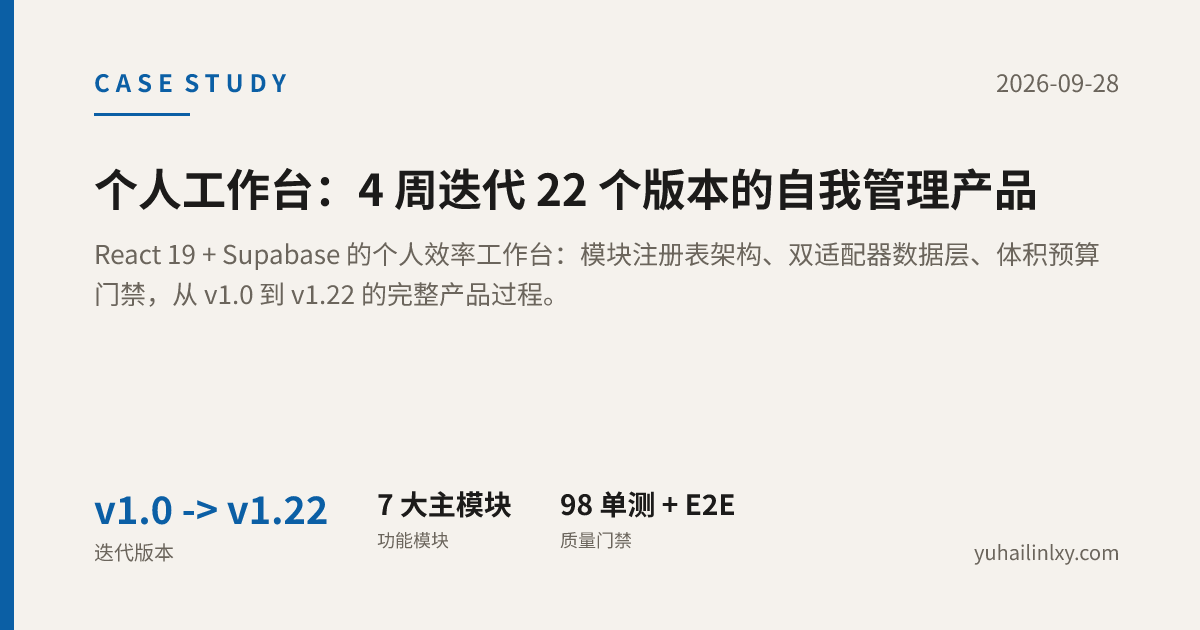
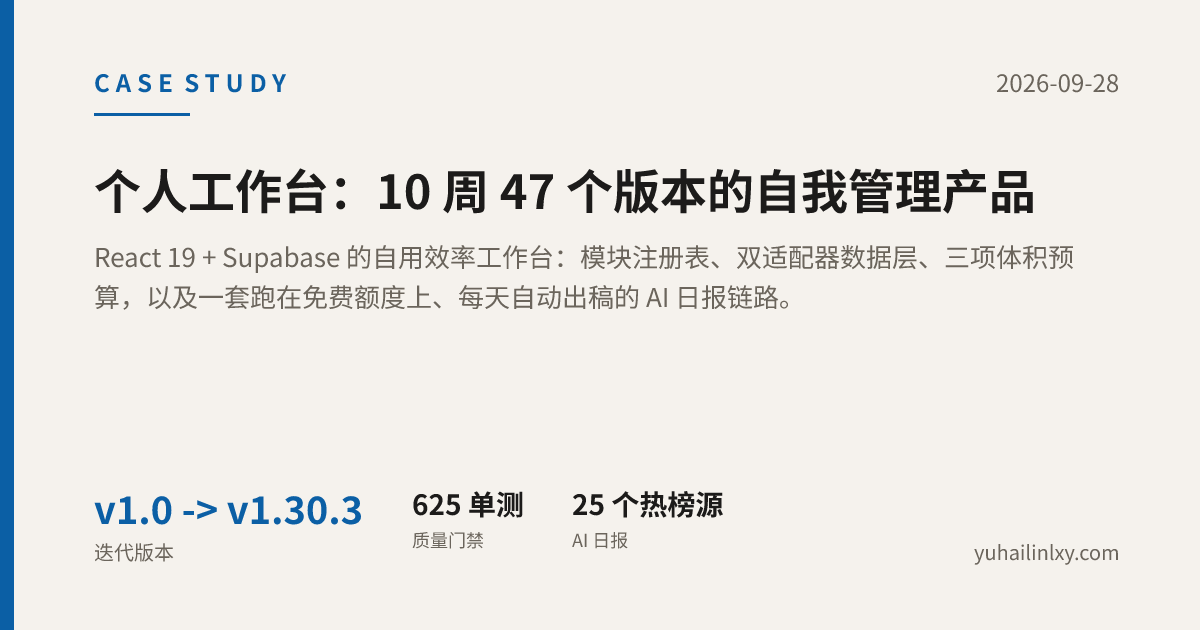
docs(site): 个人工作台案例同步到 v1.30.3 + about 时间线（v0.21）
案例停在 v1.22（2026-09-01），项目已到 v1.30.3（2026-10-16）。同步不只是改数字，是把这两段新过程写成取舍。

- 案例页：标题「4 周迭代 22 个版本」→「10 周 47 个版本」；新增取舍 5（AI 进产品：状态机+幂等 / 时间预算按剩余 60-40 切 / 空闲计费 + 关思考模式）与取舍 6（平台不保证准时 → 日报提前 04:00、提醒每 20 分钟、删掉 UI 里「每天 06:00」的承诺）；结果区数字全部现跑（625 单测 / 69 文件、12 条 E2E、三项体积预算 790/1150/340 KB、47 版 = 23+6+18）；复盘区补「代价最贵的一课」
- 更正历史数字：按 changelog 逐条数，v1.0.0→v1.22.0 实为 23 个发布（原写 22）
- 加 links.repo（仓库本就公开；加链前做敏感信息体检：跟踪文件只有 .env.example / .env.test 的 VAPID 公钥，历史 sk-/JWT 形态 0 命中）
- about.md：能力域补「AI 功能编排与上线自检」；时间线加 2026-10 的个人工作台、8 月那条 22 → 23 版
- 撞上 OG 门禁：metrics 同时是封面底排文案，加长后 npm run og 直接红（底排出框 1210>1026）。不放宽版式，按 estimateWidth 预算重选指标值（88.6%）后重新生成 18 张 OG 图
- about/README/STATUS/ISSUES/lessons-learned 同步；ISSUES #28 登记「site/.github 嵌套工作流从未被 GitHub 调度，lint/format:check 从没跑过」
- 验证：npm run build 退出码 0 / 28 页 / 10 门禁全绿；真实浏览器截图 6 张零 console 错误

Changed region(s): [[0.0617, 0.2714, 0.925, 0.5127], [0.2467, 0.7841, 0.6167, 0.8746], [0.4625, 0.8444, 0.5242, 0.8746]]

diff --git a/site/src/content/case-studies/personal-workbench.md b/site/src/content/case-studies/personal-workbench.md
@@ -1,24 +1,25 @@
 ---
-title: "个人工作台：4 周迭代 22 个版本的自我管理产品"
-description: "React 19 + Supabase 的个人效率工作台：模块注册表架构、双适配器数据层、体积预算门禁，从 v1.0 到 v1.22 的完整产品过程。"
+title: "个人工作台：10 周 47 个版本的自我管理产品"
+description: "React 19 + Supabase 的自用效率工作台：模块注册表、双适配器数据层、三项体积预算，以及一套跑在免费额度上、每天自动出稿的 AI 日报链路。"
 pubDatetime: 2026-09-28T12:00:00+08:00
-modDatetime: 2026-10-14T23:50:00+08:00
+modDatetime: 2026-10-16T23:30:00+08:00
 featured: true
-tags: ["产品设计", "React", "架构"]
+tags: ["产品设计", "React", "架构", "AI 落地"]
 projectRole: "独立产品人与开发者：需求定义、模块规划、技术选型、迭代节奏与全部实现"
-stack: ["React 19", "Vite", "TypeScript", "Tailwind v4", "shadcn/ui", "Supabase", "TanStack Query", "Vercel"]
+stack: ["React 19", "Vite", "TypeScript", "Tailwind v4", "shadcn/ui", "Supabase", "TanStack Query", "DeepSeek API", "Vercel"]
 links:
   live: "https://workbench.yuhailinlxy.com"
+  repo: "https://github.com/YHLLXY/-personal-workbench"
 metrics:
   - label: "迭代版本"
-    value: "v1.0 → v1.22"
-    note: "2026-08-04 至 09-01，约 4 周"
-  - label: "功能模块"
-    value: "7 大主模块"
-    note: "总览/学习/自我提升/资讯/健康/复盘/我的"
+    value: "v1.0 → v1.30.3"
+    note: "2026-08-04 至 10-16，47 个版本；规模长到 6 主模块 / 12 子模块"
   - label: "质量门禁"
-    value: "98 单测 + E2E"
-    note: "另有客户端体积预算门禁"
+    value: "625 单测"
+    note: "69 个测试文件 + 12 条 E2E；另有三项体积预算门禁"
+  - label: "AI 日报"
+    value: "25 个热榜源"
+    note: "每日自动：抓取 → 摘要 → 事件聚簇 → 出稿"
 ---
 
 ## 一、背景与问题
@@ -33,27 +34,44 @@ metrics:
 
 独立产品人与开发者，own 全部环节：需求定义与优先级排序、模块规划与信息架构、技术选型、前后端实现、测试与发布流程。AI 深度参与编码与审查，但**架构决策、验收标准、发版节奏由我把握**——为此建立了版本号制度（SemVer 裁剪 + 发版 checklist）和自动化发版脚本（v1.15 起，一条命令出包）。
 
+10 月的 AI 日报是我第一次把模型放进**无人值守**的位置：它每天凌晨自己跑完抓取、摘要、聚类和成稿，我只在上班前读结果。这一段经历把我对“AI 功能”的理解从“会写提示词”推到了“会设计失败面”。
+
 ## 三、过程与关键取舍
 
 **取舍 1：模块注册表，让“加功能”不再是体力活。** 多模块 SPA 的侧边栏、底部 Tab、路由、首页卡片最初分散在四处，新增模块要改 4 个文件。改为单一类型化注册表后，导航/路由/首页卡片全部由它生成，新增模块 = 新建文件夹 + 注册表加一行，且每个模块自动独立 chunk 懒加载。代价是注册表引用超前会卡构建，纪律是每个 commit 保持可构建。
 
 **取舍 2：双适配器数据层，不被云端阻塞。** Supabase 凭据、建表在开发早期无法就绪。我定义了 33 个方法的 Repository 接口，本地实现（localStorage）与云端实现（Supabase）按环境变量切换——整个开发周期无凭据也能全功能跑通。代价：两个实现必须逐方法对齐语义（任务完成状态机、upsert 必须带 id），这类“本地/云端行为分叉”是项目里最隐蔽的 bug 类。
 
-**取舍 3：体积预算门禁，被否掉的 Motion 方案。** v1.13 起引入客户端体积预算门禁 + Playwright E2E。v1.22 我想用 Motion 动画库做启动动画，实测包体 **+123KB，破预算**——放弃，降级为零依赖 Canvas 氛围层 + 手写 FLIP 动画替代。预算门禁的价值就在这一刻：它让“要不要引一个库”从感觉问题变成数字问题。
+**取舍 3：体积预算门禁，被否掉的 Motion 方案。** v1.13 起引入客户端体积预算门禁 + Playwright E2E。v1.22 我想用 Motion 动画库做启动动画，实测包体 **+123KB，破预算**——放弃，降级为零依赖 Canvas 氛围层 + 手写 FLIP 动画替代。预算门禁的价值就在这一刻：它让“要不要引一个库”从感觉问题变成数字问题。v1.26 又把这一个数字拆成三个（首屏 JS / JS 总量 / 最大单 chunk）——旧口径量的是“代码总量”，却声称保护“移动端首屏”，**判据和它声称保护的东西对不上，门禁就只是个仪式**。
 
 **取舍 4：AI 代码审查不盲信。** v1.9 对一轮 72 条 AI 代码审查逐条核实：约 1/3 是误报，5 条标 CRITICAL 的**全部不成立**。AI 提效，但验证权必须留在人手里——这条后来成了我仓库执行规则的固定条款。
 
+**取舍 5：让 AI 进产品，但把不确定性关进三样东西。** v1.27 给「今日热点」加了一条 AI 日报链路：每天凌晨抓 25 个热榜源 → 模型逐条摘要 → 把同一件事的多篇报道聚成一个事件 → 编排成一份带来源链接的简报。难点不在提示词，而在**让它一次函数执行、一份免费额度内稳定跑完**：
+
+- **状态机 + 幂等**：条目在「待处理 / 处理中 / 已完成 / 已跳过 / 已失败」之间流转，领取即置「处理中」。重跑因此是安全的——实测第二次运行只用 2.4 秒、新增 0 条。
+- **时间预算**：整条链路切成「抓取 → 摘要（前 60%）→ 聚簇（后 40%）」，且预算按**剩余**时间切。第一版按总量切，抓取一吃掉 11 秒，摘要只剩 1 秒，一轮只处理得了 5 条、顺延 30 条，得连跑 7 轮才消化得完。
+- **成本**：整条链路跑在模型的空闲计费时段（价格是高峰的一半），并关掉默认开启的「思考模式」。这个开关是实测逼出来的：18 条真实长度的标题能让它想掉 1900 个 token，而**思考是从输出额度里扣的**——2000 的额度只剩一百来个写正文，日报断在半截 JSON 上。更阴险的是它随输入长度漂移：换短标题只要 871 个 token，正好能过，所以本地小样本测试是绿的。
+
+链路一变长，失败面就铺开（抓取、摘要、聚簇、编排四处都可能断），于是配了一个**上线自检**：一次调用把环境变量、四张表、归属账号、热榜连通、模型连通、通知通道全查一遍，且**任何一项失败都不影响其余项继续检查**。上线顺序固定为「先自检，再抓取，最后出稿」。
+
+**取舍 6：平台不保证准时，产品就不该承诺时刻。** 定时任务落到 GitHub Actions（零成本，符合学生预算）。第一次全自动运行就暴露了一件事：**计划任务不保证准时**——日报排在早上 6 点，实际快 8 点才生成；提醒按每小时排，9 个整点里只有 2 个真的跑了。两条工程补偿：日报**提前到凌晨 4 点**起跑（早生成没有副作用，晚才有），提醒改成**每 20 分钟**扫一次（既然单次不可靠，就提高尝试频次）。同时改掉一句善意的谎——应用里原本写着「每天 06:00 自动生成」，既然实际时间会漂，就不该承诺具体时刻，改成「每天凌晨……通常在你起床前就备好了」。**把不确定性讲清楚，比维护一个漂亮的承诺更值钱。**
+
 ## 四、结果与量化
 
-- **4 周内发布 22 个版本**（v1.0 → v1.22），从 5 模块长到 7 大主模块（总览、学习与科研、自我提升、资讯与资料、健康、复盘、我的），全程每个 commit 可构建。
-- **质量门禁全绿**：98 个单元测试 + Playwright 端到端 + 体积预算门禁（拦下 123KB 的劣化方案）。
-- 产品在线运行：[workbench.yuhailinlxy.com](https://workbench.yuhailinlxy.com)。支持 PWA 安装、Web Push / Server酱 提醒、备份导出导入、云端多设备同步。
-- **诚实交代**：这是 N=1 的自用产品，没有外部用户数据。它的价值在于**完整产品过程的证据**——版本制度、发版 checklist、验收清单、体积预算，这套流程可以直接复用到团队场景。
+- **47 个版本 / 73 天**（v1.0.0 → v1.30.3）。节奏分三段：前 4 周 23 版（密集迭代）、9 月 6 版（按需维护）、10 月两天 18 版（先修 7 个体验缺陷，再走完 AI 日报从上线到定稿的 17 版）。全程每个 commit 可构建。
+- **质量门禁全绿**：625 个单元测试（69 个文件）+ 12 条 Playwright 端到端 + 三项体积预算（首屏 JS 790KB / JS 总量 1150KB / 最大单 chunk 340KB）。体积预算拦下过 123KB 的劣化方案。
+- **AI 日报进入无人值守**：每天凌晨自动抓 25 个热榜源，落库 → 逐条摘要 → 事件聚簇 → 成稿。交付当日完整自动运行产出 14 条事件、5 个来源的简报；日报可一键复制为 Markdown，也能按日期回看历史。
+- 产品在线运行：[workbench.yuhailinlxy.com](https://workbench.yuhailinlxy.com)，支持 PWA 安装、三通道提醒（Web Push / Server酱 / Telegram）、备份导出导入、云端多设备同步。源码在[公开仓库](https://github.com/YHLLXY/-personal-workbench)——本页每个数字都能自己跑一遍。
+- **诚实交代**：这是 N=1 的自用产品，没有外部用户数据。它的价值在于**完整产品过程的证据**——版本制度、发版 checklist、上线自检、体积预算，这套流程可以直接复用到团队场景。
 
 ## 五、复盘与反思
 
-**成立的**：注册表 + 双适配器让四周密集迭代没有烂尾（此前我做项目常死于结构混乱）；质量门禁让“快速迭代”没有变成“快速腐化”。
+**成立的**：注册表 + 双适配器让密集迭代没有烂尾（此前我做项目常死于结构混乱）；质量门禁让“快速迭代”没有变成“快速腐化”。这次再添一条：**把不确定性关进状态机和时间预算，比事后反复调提示词有效得多**——AI 功能的稳定性来自工程约束，不来自写得更好的那句话。
 
 **过度设计的**：v1.18 我花两天纯 CSS 手绘启动动画，被打回重做——v1.19 换 Meteocons 素材库一天完成，效果更好。教训固化：**先找现成方案，自研是最后选项**。
 
-**下次会验证的**：提醒到达率（Web Push vs Server酱）值得做对比实验；若未来开源，双适配器数据层和注册表模式是两个可独立复用的模块。
+**代价最贵的一课**：AI 日报上线当天，625 个测试全绿，链路上线后却一次都没成功。建表时把状态机写成四种状态、**漏了「处理中」**，而领取条目的函数恰恰要写入它，于是每次调用都被数据库当场拒绝。根因不在漏写，而在：测试里的数据库是我自己写的替身，它只认逻辑、不认字段级约束。**替身比真库宽松的地方，就是 bug 的藏身处。** 现在有一条测试直接读建表 SQL，比对状态机的取值集合。
+
+**下次会验证的**：三种提醒通道的到达率对比实验（Web Push / Server酱 / Telegram）；把更新日志从首屏包体里挪出去改成按需加载——代码总量余量只剩 21KB，而它还在长。
+
+<!-- 同步记录：2026-10-16 v1.22 → v1.30.3（AI 日报上线 + 三通道提醒 + 体积预算拆三项 + 公开发布） -->

diff --git a/docs/STATUS.md b/docs/STATUS.md
@@ -554,6 +554,41 @@
 
 **仍待用户操作（非阻塞，两项）**：
 
-1. 两个 GitHub 仓库的 homepage 仍指向 `*.vercel.app`：`YHLLXY/-personal-workbench` → `personal-workbench-lilac.vercel.app`；`YHLLXY/pm-forge` → `pm-forge-rose.vercel.app`。本机 `gh` CLI **未安装**，需在网页端 Settings 修改。
+1. ~~两个 GitHub 仓库的 homepage 仍指向 `*.vercel.app`~~ —— **2026-10-16 复核已解决**（本机用 `git credential fill` 取 token 走 API 实查）：`YHLLXY/-personal-workbench` → `https://workbench.yuhailinlxy.com`、`YHLLXY/pm-forge` → `https://www.yuhailinlxy.com`，两条都已是自定义域名。仍缺的是 **pm-forge 仓库的 description 与 topics 为空**（作品站把它当「公开仓库」证据链的一环，建议补）。
 2. `VITE_SUPABASE_URL` 被设成 Sensitive，导致用户**自己也读不到**（本次配 Supabase 回调白名单时卡在这里）。呼应 vault 手册修复清单 #8「**`VITE_` 前缀绝不开 Sensitive**」——该值构建期内联进前端包，本就是公开的，开 Sensitive 是纯自伤。可选清理。
+
+## 2026-10-16 作品站「个人工作台」案例同步（v0.21）
+
+**触发**：用户「现在同步一下我的作品站上的有关于个人工作台的部分吧」。
+
+**盘点（先枚举，再动手）**：全站扫「工作台 / workbench / 版本号形态」，6 处命中里**只有 2 处**需要同步 —— `site/src/content/case-studies/personal-workbench.md`（案例页）与 `site/src/content/pages/about.md`（能力域证据 + 时间线）；另 4 处是无关文案（toolbox 截图的 `alt`、搜索框 `placeholder` 等），**判定不改**。案例停在 **v1.22（2026-09-01）**，项目已到 **v1.30.3（2026-10-16）**。
+
+**权威数字（全部现跑，不引用记忆/文档）**：
+
+- 版本：changelog 逐条解析 → **47 个版本**（`v1.0.0` 2026-08-04 → `v1.30.3` 2026-10-16），分三段 **23 + 6 + 18**（前 4 周密集 / 9 月按需 / 10 月两天 AI 日报专项）
+- 测试：`npm test` → **625 通过 / 69 文件**；E2E `e2e/smoke.spec.ts` **12 条**（单 chromium project）
+- 模块：`src/registry.ts` → **6 主模块 / 12 子模块** + 一个「我的」页
+- 体积预算（`scripts/check-bundle.mjs` 常量）：首屏 **790** / 总量 **1150** / 单 chunk **340** KB
+- AI 日报：`api/hot.ts` 的 `SOURCES` **25 个源**（与线上自检报的「60 条 / 25 源」一致）；`api/digest.ts` `buildReport` 的 `items` = 事件条目数，交付当日全自动运行 `{items:14, sources:5}`
+- 发布链：日报 `0 20 * * *`（北京 04:00）、提醒 `*/20 * * * *`
+
+**改了什么**：
+
+1. **案例页**：标题 → `个人工作台：10 周 47 个版本的自我管理产品`；description / `modDatetime` / tags / stack（+DeepSeek API）同步；`metrics` 重选；新增 **取舍 5**（AI 进产品：状态机+幂等 / 时间预算按剩余 60-40 切 / 空闲计费 + 关思考模式）与 **取舍 6**（平台不保证准时 → 日报提前 04:00、提醒每 20 分钟、删掉 UI 里「每天 06:00」的承诺）；结果区数字全部换成现跑值；复盘区新增「代价最贵的一课」（替身比真库宽松）与新的「下次会验证的」。
+2. **`about.md`**：能力域「工程交付」补「AI 功能编排与上线自检」；时间线加 2026-10 的个人工作台，8 月那条 **22 → 23 版**。
+3. **`links.repo`**：仓库本就公开（匿名 API 200）。加链前做体检 —— 跟踪文件只有 `.env.example` / `.env.test`（VAPID **公钥**，设计上公开），历史 `-G 'sk-[A-Za-z0-9]{24,}'` 与 JWT 形态 **0 命中**。
+4. **OG 图重生**：`npm run og` → 18 张（底排最紧 agriagent 94%，本页 **88.6%**）。
+
+**踩到的门禁（值得记）**：`metrics` 不只是数据、**同时是封面底排文案**。指标值一加长，`npm run og` 直接红：`✗ 底排出框：personal-workbench 1210>1026`（`scripts/og/card.mjs` 的 `estimateWidth` 拿 headline+facts+域名 与可用宽 1026 比）。**不放宽版式**，改为按预算重选指标值（「625 单测 + E2E」→「625 单测」，细节挪进 `note`）。约束在脚本里、不在写内容的人会读的地方。
+
+**验证**：
+
+- `npm run build` **退出码 0 / 28 页 / 10 门禁全绿**：案例 5 篇 × 四段式 · 死链（146 文件，无 `*.vercel.app`）· RSS 17 条 · JSON-LD（29 页 / 17 个 BlogPosting）· 标题结构（29 页恰好一个 h1、无跳级）· 目录（18 页 / 122 锚点）· 首页证据面板 · OG（18 图 / 28 页）· 体积（duckdb 33.39MB / story 2.03MB）
+- **真实浏览器截图 6 张**（1440 桌面整页+折叠位、390 移动整页、首页、案例列表、关于）**零 console 错误**；页面渲染与右栏「在线访问 / 源码仓库」双链均确认
+- 尺寸自检：标题 **20.92 em** ≤ 28、description **67.44 em** ≤ 76（均不触发截断）
+
+**登记不改**：ISSUES **#28** —— `site/.github/workflows/ci.yml` 是 AstroPaper 模板遗留，**GitHub 只读仓库根目录的 `.github/workflows/`**，嵌套那份从未被调度，故 `site/` 的 `lint`（实测 186 个 `no-console`）与 `format:check`（144 文件）从没被任何 CI 跑过；与 #24 同源。构建链不受影响。
+
+**本机待留意**：`site/public/duckdb/duckdb-browser-eh.worker.js` 每次 `npm run build` 都会被 `copy-duckdb-assets.mjs` 重写成 CRLF，于是 `git status` 常年显示 ` M` 而 `git diff` 为空（行尾归一化）。**不要把它一起提交**。
+
 

diff --git a/docs/lessons-learned.md b/docs/lessons-learned.md
@@ -192,3 +192,43 @@ P2 里躺了 13 天的 `*.vercel.app` 外链收口时，我自己新写的门禁
 - [[40-经验教训/调试方法论/2026-10-14-测量路径必须与用户路径一致]]
 - [[30-项目/pm-forge/2026-10-14-外链域名落地与门禁补做]]
 
+---
+
+## 2026-10-16 作品站案例同步 v0.21：内容字段是版式参数、历史数字要复算、门禁可能根本没在跑
+
+### 问题
+
+把作品站（pm-forge/site）上的「个人工作台」案例从 v1.22 同步到 v1.30.3，一轮里撞了三件不相同的事：
+
+1. 指标值加长后，OG 图生成**直接红**：`✗ 底排出框：personal-workbench 1210>1026`。
+2. 已发布的数字有**一处对不上**：原文写「4 周 22 个版本」，按 changelog 逐条数实为 **23**。
+3. 站点的 `npm run format:check` / `npm run lint` **全红**（144 文件 / 186 错误），却**从来没拦住过任何东西**。
+
+### 根因
+
+1. **`metrics` 不只是数据，同时是封面文案。** `scripts/og/card.mjs` 的 `estimateWidth()` 把「headline + facts + 域名」的估算宽度和 1026px 可用宽作比较，超了就 `exit 1`。改 frontmatter 的人（我）不知道这条约束存在——**约束写在脚本里，不在写内容的人会读的地方**。
+2. **历史数字是凭印象写的，没有可复跑的来源。** 当时按「v1.0 → v1.22」心算成 22，实际 `v1.0.0`→`v1.22.0` 是 23 个发布。作品站是给别人抽验的，这种偏差迟早被问到。
+3. **嵌套 `.github/` 不生效。** GitHub 只读**仓库根目录**的 `.github/workflows/`，而 `site/.github/workflows/ci.yml`（AstroPaper 模板带来的）在子目录里——它看着像 CI，实际永远不会被调度。于是 `lint` / `format:check` 从未执行过。
+
+### 解决方案
+
+1. **不放宽版式，改内容。** 写了个 6 行脚本直接 import `deriveCardData` + `estimateWidth` 把占用率算出来（88.6%），据此重选指标值（「625 单测 + E2E」→「625 单测」，细节挪进 `note`），再跑 `npm run og`——一次过。
+2. **数字全部现跑 + 自洽校验。** `npm test` → 625 通过 / 69 文件；changelog 用正则逐条解析版本与日期，分三段数出 **23 + 6 + 18 = 47**，与总数对得上才敢写。
+3. **登记而非静默。** ISSUES **#28** 写清现象/原因/影响/严重度与「为什么这次不修」；顺带说明它与 #24（format 红）同源，避免下一个人误判成「这次改动弄红的」。
+4. **加 `links.repo` 之前先做敏感信息体检**：`git ls-files` 看跟踪了什么、`git log -G 'sk-[A-Za-z0-9]{24,}'` 扫历史、确认公开的是 VAPID **公钥**（设计上就该给客户端）。
+
+### 如何避免
+
+- **同步类任务的第一步是「枚举所有出现处」**，不是改最显眼的那一页：`grep` 全站项目名 + 版本号形态，逐个判定「该改 / 不该改」。本轮 6 处命中里只有 2 处需要改（案例页 + about），另 4 处是无关文案。
+- **写进作品站的每个数字都要能现跑一遍**；**对历史声称也要复算**——它同样会被抽验。
+- **内容字段常常同时是版式参数。** 改 frontmatter 前先看渲染它的脚本里有没有宽度/长度断言。
+- **门禁红了先分三种情况**：它**能跑且真的红了** / 它**能跑但从没红过** / 它**根本没在跑**。第三种最贵——它让你以为有防线。
+- **约束要写在执行者会读到的地方**（与 2026-10-16「规则写在了执行者读不到的地方」同一条元教训的两个新实例）。
+
+### vault 双写
+
+- [[40-经验教训/质量门禁/2026-10-16-约束写在执行者读不到的地方]]
+- [[40-经验教训/文档一致性/2026-10-16-同步任务先枚举所有出现处]]
+- [[30-项目/pm-forge/2026-10-16-作品站案例同步到-v1.30.3]]
+
+

diff --git a/README.md b/README.md
@@ -71,6 +71,14 @@ npm run smoke:real     # 真实 LLM 冒烟：三工具各产 1 份报告到 tool
 - 浏览器安装（仅 e2e 首次）：`PLAYWRIGHT_DOWNLOAD_HOST=https://npmmirror.com/mirrors/playwright/ npx playwright install chromium`
 
 ## 更新日志
+- 2026-10-16 v0.21: **作品站「个人工作台」案例同步到 v1.30.3**——案例停在 v1.22（9 月初），项目已走到 v1.30.3：新增 AI 日报（每天凌晨自动抓 25 个热榜源 → 模型摘要 → 事件聚簇 → 出稿）、三通道提醒（Web Push / Server酱 / Telegram）、体积门禁从一个数字拆成三个。同步不只是改数字，是把这两段新过程写成取舍。
+①**案例页**：标题 `4 周迭代 22 个版本` → `10 周 47 个版本`；正文新增「取舍 5：让 AI 进产品，但把不确定性关进三样东西（状态机+幂等 / 时间预算按剩余切 / 空闲计费 + 关思考模式）」与「取舍 6：平台不保证准时，产品就不该承诺时刻」（GitHub 计划任务实测漂移 → 日报提前到 04:00、提醒改每 20 分钟扫、删掉 UI 里「每天 06:00 自动生成」的承诺）。数字**全部现跑**：625 单测 / 69 文件、12 条 E2E、三项体积预算（首屏 790 / 总量 1150 / 单 chunk 340 KB）、47 版 = 23 + 6 + 18 的三段节奏。
+②**更正一处历史数字**：原写「4 周 22 个版本」，按 changelog 逐条数（`v1.0.0` → 2026-09-01）实为 **23**（`v1.0.0`→`v1.22.0` 共 23 个发布）。作品站上的数字要能被抽验，宁可换成可复算的写法。
+③**案例加 `links.repo`**：仓库本就公开（匿名 API 实测 200）；加链前做了敏感信息体检——跟踪文件里只有 `.env.example` / `.env.test`（VAPID **公钥**，设计上就该公开），历史扫描 `-G 'sk-[A-Za-z0-9]{24,}'` 与 JWT 形态 **0 命中**。
+④**`about.md`**：能力域「工程交付」补「AI 功能编排与上线自检」；时间线加一条 2026-10 的个人工作台，8 月那条 22 → 23 版。
+⑤**撞上 OG 门禁**：`metrics` 不只是数据、**同时是封面底排文案**——指标值加长后 `npm run og` 直接红（`底排出框：personal-workbench 1210>1026`）。**不放宽版式**，改为按 `estimateWidth` 的预算重选指标值（占用 88.6%）后重新生成 OG 图。
+⑥**全量构建退出码 0**：28 页 / 10 门禁全绿（案例 5 篇 · 死链 · RSS 17 条 · JSON-LD 29 页 · 标题 29 页 · 目录 122 锚点 · 首页证据面板 · OG 18 图 · 体积两项）；真实浏览器截图 6 张（桌面整页/折叠位 + 移动整页 + 首页 + 案例列表 + 关于）**零 console 错误**。
+⑦**顺带登记一个静默失效**（ISSUES #28）：`site/.github/workflows/ci.yml` 是 AstroPaper 模板遗留，而 **GitHub 只读仓库根目录的 `.github/workflows/`** —— 嵌套的那份从未被调度，所以 `site/` 的 `lint` / `format:check` 从来没被任何 CI 跑过。构建链不受影响（根 CI 只跑 `npm run build`），故只登记不改。
 - 2026-10-14 v0.20: **外链域名落地 + 门禁补做**——13 天未收口的那条外链修好了，顺带补上一个「文档里写了、代码里没有」的门禁。
 ①**用户绑 `workbench.yuhailinlxy.com`**（Vercel 给 `personal-workbench` 项目加域名 + 阿里云两条 A 记录 `76.76.21.21` / `64.29.17.65`，**不用 CNAME**）；本机复测 DNS 正确、HTTPS **10/10 = 200**、SPA 深路由全 200、`/api/check-reminders` 401 符合预期、`www`/`toolbox` 未受影响。
 ②**根因实锤**：`*.vercel.app` 不是「偶尔连不上」而是**整片域被 DNS 污染**（`pm-forge-rose` 解析到 `31.13.94.23` = Facebook 网段、`vercel.app` 根域 → `128.242.240.189`、目标域 SERVFAIL），**唯一解法就是绑自定义域名**。

diff --git a/docs/ISSUES.md b/docs/ISSUES.md
@@ -13,6 +13,7 @@
 | 23 | dissections/charter 的目录条目数不会自动等于正文 h2 数 | 该页 h2 是手写的；目录与 id 虽共用同一份 sections 常量，但「正文里加了小节却忘了加进常量」没有任何自动信号 —— check-toc.mjs 只校验「目录里的锚点在本页存在」，是单向的 | 新增小节可能不进目录（页面看着正常，只是漏了一条） | 低 | 常量上方已写注释提醒；若要机械化，需给手写页补一条「正文 h2 数 vs 目录条目数」断言 |
 | 24 | 本机 npm run format:check 全红，报一堆文件格式不符 | .prettierrc 是 endOfLine: "lf"，而 core.autocrlf=true 把检出文件全变成 CRLF（实测未改过的 typography.css / index.astro / Footer.astro 同样报红） | 无法用 prettier 做提交前检查（**它不是构建链门禁，构建与发布不受影响**） | 低 | **不处理**：不要为了让 prettier 变绿去改行尾（会造出整文件级 diff，且下次检出又被 autocrlf 打回）。要修就统一改 .prettierrc 或关 autocrlf，另开一轮 |
 | 25 | 本机两条 PowerShell **假信号**：①npm run 报 UnauthorizedAccess（禁止运行脚本）；②cmd 2>&1 \| Select-Object 让 pwsh 进程报 [exit 1]，而命令其实成功 | ①执行策略禁止运行 npm.ps1；②PS 把原生命令的 stderr 包成 NativeCommandError，经管道收尾后影响进程退出码 | 会把成功误判为失败、把绿门禁误判成红，然后去「修」根本没坏的东西 | 低 | ①一律写 npm.cmd；②不接管道，或 cmd *> 日志文件 再 Get-Content，并显式读 $LASTEXITCODE。已写入 v0.18 实施计划的「本机执行环境的三个坑」 |
+| 28 | `site/` 的 `npm run lint` 与 `npm run format:check` 全红（2026-10-16 实测：format **144 文件**不符、lint **186 个 `no-console`** 错误），且**从未被任何 CI 跑过** | `site/.github/workflows/ci.yml` 是 AstroPaper 模板遗留——**GitHub 只读仓库根目录的 `.github/workflows/`**，嵌套目录里的工作流永远不会被调度（根 CI 只跑 `site/` 的 `npm run build`）。#24 记的 `format:check` 红与此同源（`endOfLine: lf` vs `core.autocrlf=true`）；lint 红是 eslint 配置没给 `scripts/*.mjs`（CLI 脚本，天然要 `console.log`）留 override | 这两条检查**形同不存在**：写坏格式、给脚本加 `console.log` 没有任何东西会拦（**构建链与发布不受影响**） | 低 | 登记不改：要修就一并处理（删掉嵌套 `ci.yml` 或挪进根工作流 + 给 `scripts` 加 eslint override），另开一轮。**注意别把它当成「这次改动弄红的」** |
 
 ## P2 演进项（v1 明确不做，非缺陷）
 

diff --git a/site/src/content/pages/about.md b/site/src/content/pages/about.md
@@ -16,16 +16,17 @@ description: "余翰林：重庆邮电大学大数据管理与应用专业，目
 | 产品设计 | 四段式案例法、RICE 优先级、用户故事与验收标准、PRD 模板（信息缺口标【待补充】+ 拍板人） | [AI PM 工具箱](/toolbox/) · [AgriAgent](/case-studies/agriagent/) |
 | 数据分析 | 指标树（OSM/AARRR）、转化漏斗、RFM 分层、口径先行、DuckDB + Quarto | [UserBehavior 案例报告](/analysis/userbehavior-case1/) |
 | AI 评测与模型评估 | 66 例评测集 + LLM-as-judge 回归基线；消费级 AI 产品 40 条逐条实测（失败案例同等呈现） | [评测驱动的第一次产品迭代](/toolbox/reports/eval-driven-contract-fix/) · [AI 产品拆解](/dissections/) |
-| 工程交付 | React 19 / Next.js / Astro、TDD（vitest + Playwright）、体积预算门禁、AI 协作开发流程 | [个人工作台](/case-studies/personal-workbench/) · [情侣心愿 App](/case-studies/couple-app/) |
+| 工程交付 | React 19 / Next.js / Astro、TDD（vitest + Playwright）、体积预算门禁、AI 功能编排与上线自检、AI 协作开发流程 | [个人工作台](/case-studies/personal-workbench/) · [情侣心愿 App](/case-studies/couple-app/) |
 | 方法论沉淀 | 结构化复盘、经验资产化（一次踩坑 → 全项目复用的检查清单） | [红岩网校群面复盘](/case-studies/hongyan-group-interview-retro/) |
 
 ## 项目时间线
 
 - **2026-06** 挑战杯校赛「AgriAgent 丰稷智农」——团队前端负责人，商业计划 + 产品页
 - **2026-07** 情侣心愿 App——3 天 5 阶段交付上线（Vue 3 + Supabase）
-- **2026-08** 个人工作台 v1.0→v1.22——4 周 22 版密集迭代（React 19 + Supabase）
+- **2026-08** 个人工作台 v1.0→v1.22——4 周 23 版密集迭代（React 19 + Supabase）
 - **2026-08** 红岩网校开源项目审查修复交付（JuanNiang-Neo：Go + Vue 3 项目审查与多阶段验收）
 - **2026-09** pm-forge 工程——数据分析流水线 + AI PM 工具箱上线 + 本作品集站
+- **2026-10** 个人工作台 v1.23→v1.30.3——AI 日报上线：热榜抓取 → 模型摘要 → 事件聚簇 → 无人值守出稿，提醒接三通道
 - **2026-10** pm-forge 二期——AI 产品拆解（40 条实测 + 四篇报告）与浏览器内数据故事上线，构建期门禁守护数字一致性
 
 ## 群面方法论小史
